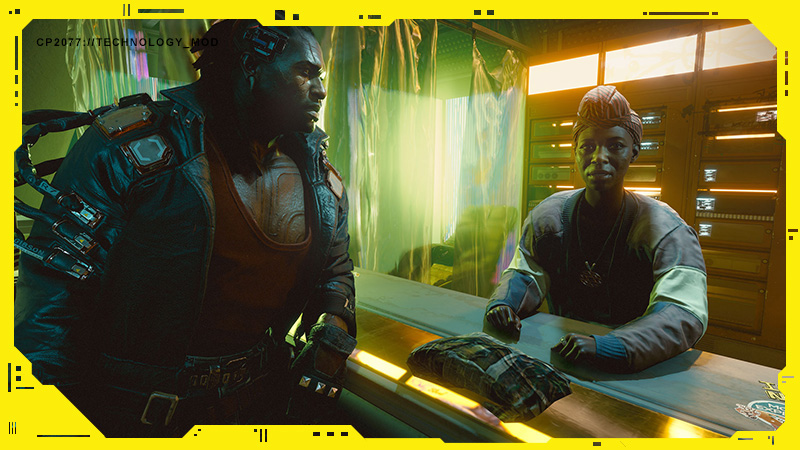
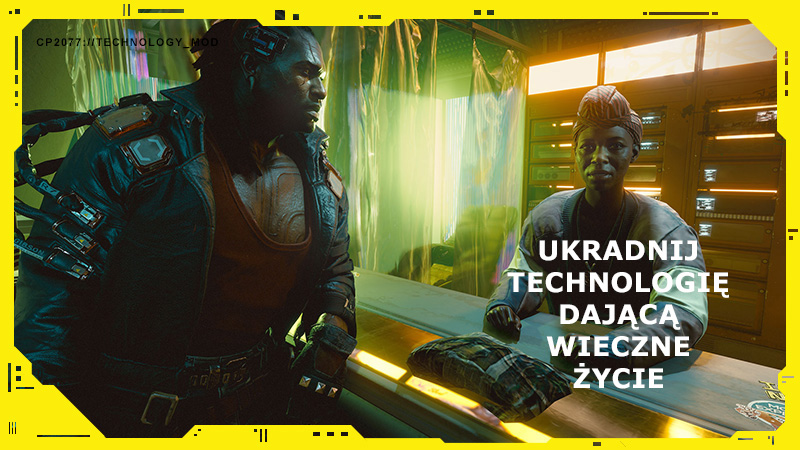
v 2.1 Mail apps friendly version
index.html rewritten to accomodate lack of margin in mail apps
Images reworked

Changed region(s): [[0.625, 0.5289, 0.9062, 0.8711]]

diff --git a/index.html b/index.html
@@ -10,8 +10,6 @@
         @media only screen and (max-width: 640px){
             .mail-container {
                 width: 100%;
-                padding: 0;
-                margin: 0;
             }
         }
 
@@ -46,6 +44,21 @@
             <td>
                 <!-- Start of the Main Container -->
                 <table class="mail-container" width="600" border="0" align="center" cellspacing="0" cellpadding="0" style="font-family: Verdana,Geneva,sans-serif;">
+
+                    <!-- View Email Online link -->
+                    <tr>
+                        <td>
+                            <table class="header-paragraph" width="100%" border="0" align="center" cellspacing="0" cellpadding="0" style="font-family: Verdana,Geneva,sans-serif; background: #000000; ">
+                                <tr>
+                                    <td align="center" style="padding: 5px; margin: 0;">
+                                        <a href="https://rbulawa.github.io/Cyberpunk_2077_Email" target="blank">
+                                            <p style="color: #ffffff; font-size: 12px; text-align: center; line-height: 1.7; margin: 0; font-weight: 300; padding-left: 0px; padding-right: 0px; padding-bottom: 0px; padding-top: 0px; letter-spacing: 0.3px; font-family: Verdana,Geneva,sans-serif; text-decoration: underline;">Obejrzyj maila Online</p>
+                                        </a>
+                                    </td>
+                                </tr>
+                            </table>
+                        </td>
+                    </tr>
                     <!-- Start of Hero Title Section -->
                     <tr>
                         <td>
@@ -117,7 +130,7 @@
                             <table width="100%" border="0" align="center" cellspacing="0" cellpadding="0" style="background: #fcee0a; font-family: Verdana,Geneva,sans-serif; margin: 0; padding: 20px 0px; padding-bottom: 40px;" >
                                 <tr>
                                     <td align="center" width="100%">
-                                        <a align="center" style="text-decoration: none;" href="https://www.cyberpunk.net/pl/pl/pre-order" target="blank"><img src="https://rbulawa.github.io/Cyberpunk_2077_Email/img/buy-btn-red.png" alt="Przycisk kupna gry"><h3 style=" margin-top: -55px; text-transform: uppercase; font-weight: 600; letter-spacing: 2px; color: #ffffff; text-decoration: none;">Zamów teraz_</h3></a>
+                                        <a align="center" style="text-decoration: none;" href="https://www.cyberpunk.net/pl/pl/pre-order" target="blank"><img src="https://rbulawa.github.io/Cyberpunk_2077_Email/img/buy-btn-red2.png" alt="Przycisk kupna gry"></a>
                                     </td>
                                 </tr>
                             </table>
@@ -141,9 +154,8 @@
                         <td>
                             <table width="100%" border="0" align="center" cellspacing="0" cellpadding="0" style="font-family: Verdana,Geneva,sans-serif; margin: 0; background: #fcee0a;">
                                 <tr>
-                                    <td width="100%" style="padding-bottom: 40px;">
+                                    <td width="100%" style="padding-bottom: 0px;">
                                         <img align="center" width="100%" style="background: #fcee0a;" src="https://rbulawa.github.io/Cyberpunk_2077_Email/img/lotr01.jpg" alt="Obrazek postaci Łotra">
-                                        <h4 align="right" width="100%" style="font-size: 22px; color: #ffffff; margin-top: -180px; margin-left: 350px; margin-right: 40px; text-transform: uppercase; font-weight: 600; letter-spacing: 2px;">GRAJ WYJĘTYM SPOD PRAWA NAJEMNIKIEM</h4>
                                     </td>
                                 </tr>
                             </table>
@@ -152,7 +164,7 @@
                     <!-- Row 1 Underneath Text -->
                     <tr>
                         <td>
-                            <table width="100%" border="0" align="center" cellspacing="0" cellpadding="0" style="font-family: Verdana,Geneva,sans-serif; margin: 0; background: #fcee0a; padding: 10px 0px;">
+                            <table width="100%" border="0" align="center" cellspacing="0" cellpadding="0" style="font-family: Verdana,Geneva,sans-serif; margin: 0; background: #fcee0a; padding: 0px;">
                                 <tr>
                                     <td width="100%">
                                         <p align="left" style="color: #000000; font-size: 12px; text-align: left; line-height: 1.7; font-weight: 600; padding: 20px 60px; letter-spacing: 0.3px; margin-top: 10px; font-family: Verdana,Geneva,sans-serif; ">Zostań cyberpunkiem, uzbrojonym po zęby wolnym strzelcem, i stań się legendą najbardziej niebezpiecznego miasta przyszłości.</p>
@@ -166,9 +178,8 @@
                         <td>
                             <table width="100%" border="0" align="center" cellspacing="0" cellpadding="0" style="font-family: Verdana,Geneva,sans-serif; margin: 0; background: #fcee0a;">
                                 <tr>
-                                    <td width="100%" style="padding-bottom: 110px;">
+                                    <td width="100%" style="padding-bottom: 0px;">
                                         <img align="center" width="100%" style="background: #fcee0a;" src="https://rbulawa.github.io/Cyberpunk_2077_Email/img/future-city01.jpg" alt="Obrazek z miastem przyszłości Nigh City">
-                                        <h4 align="left" width="100%" style="font-size: 22px; color: #ffffff; margin-top: -250px; margin-left: 40px; margin-right: 350px; text-transform: uppercase; font-weight: 600; letter-spacing: 2px;">POZNAJ SMAK ŻYCIA W MIEŚCIE PRZYSZŁOŚCI</h4>
                                     </td>
                                 </tr>
                             </table>
@@ -177,7 +188,7 @@
                     <!-- Row 2 Underneath Text -->
                     <tr>
                         <td>
-                            <table width="100%" border="0" align="center" cellspacing="0" cellpadding="0" style="font-family: Verdana,Geneva,sans-serif; margin: 0; background: #fcee0a; padding: 10px 0px;">
+                            <table width="100%" border="0" align="center" cellspacing="0" cellpadding="0" style="font-family: Verdana,Geneva,sans-serif; margin: 0; background: #fcee0a; padding: 0px;">
                                 <tr>
                                     <td width="100%">
                                         <p align="left" style="color: #000000; font-size: 12px; text-align: left; line-height: 1.7; font-weight: 600; padding: 20px 60px; letter-spacing: 0.3px; margin-top: 10px; font-family: Verdana,Geneva,sans-serif; ">Witaj w Night City — stworzonym z rozmachem mieście przyszłości, w którym zatracisz się bez pamięci.</p>
@@ -193,7 +204,6 @@
                                 <tr>
                                     <td width="100%" style="padding-bottom: 0px;">
                                         <img align="center" width="100%" style="background: #fcee0a;" src="https://rbulawa.github.io/Cyberpunk_2077_Email/img/cyberpunk-techno01.JPG" alt="Obrazek z technologią Cyberpunk 2077">
-                                        <h4 align="center" width="100%" style="font-size: 22px; color: #ffffff; margin-top: -160px; margin-left: 350px; margin-right: 40px; text-transform: uppercase; font-weight: 600; letter-spacing: 2px;">UKRADNIJ TECHNOLOGIĘ DAJĄCĄ WIECZNE ŻYCIE</h4>
                                     </td>
                                 </tr>
                             </table>
@@ -206,7 +216,7 @@
                                 <tr>
                                     <td width="100%">
                                         <p align="left" style="color: #000000; font-size: 12px; text-align: left; line-height: 1.7; font-weight: 600; padding: 20px 60px; margin-top: 10px; letter-spacing: 0.3px; font-family: Verdana,Geneva,sans-serif; ">Zdobądź najpotężniejszy wszczep w Night City i zmierz się z tymi, którzy trzęsą całym miastem.</p>
-                                        <img align="center" width="100%" style="padding: 0px; margin: 0px; background: #000000;" src="https://rbulawa.github.io/Cyberpunk_2077_Email/img/black-end-bar.jpg" alt="Pas dekoracyjny kończący sekcje">
+                                        <img align="center" width="100%" style="padding: 0px; margin: 0px; background: #000000;" src="img/black-end-bar.jpg" alt="Pas dekoracyjny kończący sekcje">
                                     </td>
                                 </tr>
                             </table>
@@ -219,7 +229,7 @@
                                 <tr>
                                     <td align="center" style="padding: 0; margin: 0; background:#020012">
                                         <h1 style="color: #fcee0a; padding-bottom: 5px; padding-left: 40px; padding-right: 40px; padding-top: 40px; margin: 0; font-size: 42px; letter-spacing: 0.3px; text-transform: uppercase; line-height: 1">Oficjalny zwiastun</h1>
-                                        <img align="center" style="padding-left: 0px; padding-bottom: 5px; background: #020012;" src="https://rbulawa.github.io/Cyberpunk_2077_Email/img/cyberpunk_underline-yellow.png" alt="Pozioma stylowa kreska pod tekstem">
+                                        <img align="center" style="padding-left: 0px; padding-bottom: 5px; background: #020012;" src="img/cyberpunk_underline-yellow.png" alt="Pozioma stylowa kreska pod tekstem">
                                         <p align="center" width="100%"  style="color: #fcee0a; font-size: 14px; text-align: center; font-weight: 600; padding-bottom: 30px; margin-top: 0px; letter-spacing: 3px; font-family: Verdana,Geneva,sans-serif; text-transform: uppercase; ">Cyberpunk 2077</p>
                                     </td>
                                 </tr>
@@ -229,14 +239,13 @@
                     <!-- Trailer Image Section -->
                     <tr>
                         <td>
-                            <table width="100%" border="0" align="center" cellspacing="0" cellpadding="0" style="font-family: Verdana,Geneva,sans-serif; margin: 0; background: #fcee0a;">
+                            <table width="100%" border="0" align="center" cellspacing="0" cellpadding="0" style=" font-family: Verdana,Geneva,sans-serif; margin: 0; background: #fcee0a;">
                                 <tr>
                                     <td width="100%" style="padding-bottom: 0px; background: #020012;">
-                                        <img align="center" width="100%" style="background: #020012; padding-bottom: 20px;" src="https://rbulawa.github.io/Cyberpunk_2077_Email/img/trailer3.jpg" alt="Obrazek zwiastunowy z odnośnikiem">
-                                            <a align="center" width="100%" style="padding: 0px; margin: 0px;" target="blank" href="https://www.youtube.com/watch?v=qIcTM8WXFjk">
-                                                <img src="img/YT-play-btn.png" alt="Link do zwiastunu Cyberpunk 2077" style="padding: 0px; margin-top: -250px; margin-bottom: 180px; margin-left: 100px; margin-right: 40px;">
-                                            </a>
-                                        <img align="center" width="100%" style="padding: 0px; margin: 0px; background: #05DBF6;" src="https://rbulawa.github.io/Cyberpunk_2077_Email/img/end-bar-xbox2.jpg" alt="Pas dekoracyjny kończący sekcje">
+                                        <a align="center" width="100%" style="padding: 0px; margin: 0px;" target="blank" href="https://www.youtube.com/watch?v=qIcTM8WXFjk">
+                                            <img align="center" width="100%" style="background: #020012; padding-bottom: 0px;" src="https://rbulawa.github.io/Cyberpunk_2077_Email/img/trailer3.jpg" alt="Obrazek zwiastunowy z odnośnikiem">
+                                        </a>
+                                        <img align="center" width="100%" style="padding-top: 20px; margin: 0px; background: #020012;" src="img/end-bar-xbox2.jpg" alt="Pas dekoracyjny kończący sekcje">
                                     </td>
                                 </tr>
                             </table>
@@ -254,7 +263,7 @@
                                             <a width="100%" style="padding: 0px; margin: 0px; text-decoration: none;" target="blank" href="https://www.xbox.com/pl-PL/consoles/xbox-one-x/cyberpunk-2077-1tb-le">
                                                 <h2 align="left" style="color: #000000; text-transform: uppercase; letter-spacing: 0px; padding-top: 10px; padding-left: 40px; padding-bottom: 30px; margin: 0px;">Dostępne od czerwca 2020</h2>
                                             </a>
-                                        <img align="center" width="100%" style="padding: 0px; margin: 0px; background: #fcee0a;" src="https://rbulawa.github.io/Cyberpunk_2077_Email/img/end-bar-blue.jpg" alt="Pas dekoracyjny kończący sekcje">
+                                        <img align="center" width="100%" style="padding: 0px; margin: 0px; background: #fcee0a;" src="img/end-bar-blue.jpg" alt="Pas dekoracyjny kończący sekcje">
                                     </td>
                                 </tr>
                             </table>
@@ -265,11 +274,10 @@
                         <td>
                             <table width="100%" border="0" align="center" cellspacing="0" cellpadding="0" style="font-family: Verdana,Geneva,sans-serif; margin: 0px; padding: 0px; background: #050014;">
                                 <tr>
-                                    <td width="100%" style="padding: 0px; margin: 0px;">
-                                        <img width="100%" style="background: #fcee0a; padding: 0px; margin: 0px;" src="https://rbulawa.github.io/Cyberpunk_2077_Email/img/xbox-CP2077.jpg" alt="Obrazek limitowanej edycji Xbox'a w stylu Cyberpunk 2077">  
-                                            <a align="center" width="100%" style="padding: 0px; margin: 0px;" target="blank" href="https://www.xbox.com/pl-PL/consoles/xbox-one-x/cyberpunk-2077-1tb-le">
-                                                <img align="center" src="https://rbulawa.github.io/Cyberpunk_2077_Email/img/buy-btn-red2.png" alt="Link do zwiastunu Cyberpunk 2077" style="padding: 0px; margin-top: -230px; margin-bottom: 130px; margin-left: 100px; margin-right: 40px;">
-                                            </a>
+                                    <td width="100%" style="padding: 0px; margin: 0px;">  
+                                        <a align="center" width="100%" style="padding: 0px; margin: 0px;" target="blank" href="https://www.xbox.com/pl-PL/consoles/xbox-one-x/cyberpunk-2077-1tb-le">
+                                            <img width="100%" style="background: #fcee0a; padding: 0px; margin: 0px;" src="img/xbox-CP2077.jpg" alt="Obrazek limitowanej edycji Xbox'a w stylu Cyberpunk 2077">      
+                                        </a>
                                     </td>
                                 </tr>
                             </table>
@@ -277,10 +285,10 @@
                     </tr>
                     <!-- Buy Xbox Controller Section-->
                     <tr>
-                        <td style="padding: 0px; margin: 0px; background: #050014;">
+                        <td style="padding: 0px 0px; margin: 0px; background: #050014;">
                             <table width="100%" border="0" align="center" cellspacing="0" cellpadding="0" style="font-family: Verdana,Geneva,sans-serif; margin: 0px; padding: 0px; background: #050014;">
-                                <p style="color: #ffffff; font-size: 12px; text-align: left; line-height: 1.7; margin: 0; font-weight: 600; padding-left: 40px; padding-right: 80px; padding-bottom: 20px; padding-top: 0px; letter-spacing: 0.3px; font-family: Verdana,Geneva,sans-serif; ">Konsoli towarzyszy równie unikatowy, bezprzewodowy kontroler, którego cyberpunkowy wygląd i klimatyczne wykończenie nawiązuje do Johnnego Silverhanda — jednej z głównych postaci gry. Kontroler może być kupiony w zestawie z konsolą lub oddzielnie.</p>
-                                <img align="center" width="100%" style="padding: 0px; margin: 0px; background: #fcee0a;" src="https://rbulawa.github.io/Cyberpunk_2077_Email/img/black-end-bar3.jpg" alt="Pas dekoracyjny kończący sekcje">
+                                <p style="color: #ffffff; font-size: 12px; text-align: left; line-height: 1.7; margin: 0; font-weight: 600; padding-left: 40px; padding-right: 80px; padding-bottom: 30px; padding-top: 30px; letter-spacing: 0.3px; font-family: Verdana,Geneva,sans-serif; ">Konsoli towarzyszy równie unikatowy, bezprzewodowy kontroler, którego cyberpunkowy wygląd i klimatyczne wykończenie nawiązuje do Johnnego Silverhanda — jednej z głównych postaci gry. Kontroler może być kupiony w zestawie z konsolą lub oddzielnie.</p>
+                                <img align="center" width="100%" style="padding: 0px; margin: 0px; background: #fcee0a;" src="img/black-end-bar3.jpg" alt="Pas dekoracyjny kończący sekcje">
                             </table>
                         </td>
                     </tr>
@@ -290,7 +298,7 @@
                             <table width="100%" border="0" align="center" cellspacing="0" cellpadding="0" style="font-family: Verdana,Geneva,sans-serif; margin: 0; background: #fcee0a; padding: 0px;">
                                 <tr>
                                     <td width="100%" style="padding: 0px; margin: 0px; background: #050014;">
-                                        <img align="center" width="100%" style="padding: 0px; padding-bottom: 10px; margin: 0px; background: #050014;" src="https://rbulawa.github.io/Cyberpunk_2077_Email/img/Stellseries.jpg" alt="Pas dekoracyjny kończący sekcje">
+                                        <img align="center" width="100%" style="padding: 0px; padding-bottom: 10px; margin: 0px; background: #050014;" src="img/Stellseries.jpg" alt="Pas dekoracyjny kończący sekcje">
                                         <p style="color: #ffffff; font-size: 12px; text-align: left; line-height: 1.7; margin: 0; font-weight: 600; padding-left: 40px; padding-right: 80px; padding-bottom: 20px; padding-top: 20px; letter-spacing: 0.3px; font-family: Verdana,Geneva,sans-serif; ">Zestaw słuchawkowy od Steelseries pozwoli ci na pełną immersję w Night City! Przygotowaliśmy dwie wersje Edycji Limitowanej Arctis 1 Wireless: Edycja Johnny’ego Silverhanda i Edycja Netrunnerska. A jeśli już masz słuchawki Arctic Pro możesz je odświeżyć za pomocą jednego z booster packów! Na początku maja zestawy słuchawkowe będą dostępne w wybranych polskich sklepach.</p>
                                     </td>
                                 </tr>
@@ -303,11 +311,11 @@
                             <table width="100%" border="0" align="center" cellspacing="0" cellpadding="0" style="background: #050014; font-family: Verdana,Geneva,sans-serif; margin: 0; padding: 20px 0px; padding-bottom: 80px;" >
                                 <tr>
                                     <td align="center" width="100%" style="padding: 0px;">
-                                        <a style="text-decoration: none;" href="https://steelseries.com/cyberpunk-2077" target="blank"><img src="https://rbulawa.github.io/Cyberpunk_2077_Email/img/buy-btn-red-white.png" alt="Przycisk kupna gry"><h3 style=" margin-top: -55px; text-transform: uppercase; font-weight: 600; letter-spacing: 2px; color: #ffffff; text-decoration: none;">Zamów teraz_</h3></a>
+                                        <a style="text-decoration: none;" href="https://steelseries.com/cyberpunk-2077" target="blank"><img src="img/buy-btn-red2.png" alt="Przycisk kupna gry"></a>
                                     </td>
                                 </tr>
                             </table>
-                            <img align="center" width="100%" style="padding: 0px; margin: 0px; background: #050014;" src="https://rbulawa.github.io/Cyberpunk_2077_Email/img/black-end-bar3.jpg" alt="Pas dekoracyjny kończący sekcje">
+                            <img align="center" width="100%" style="padding: 0px; margin: 0px; background: #050014;" src="img/black-end-bar3.jpg" alt="Pas dekoracyjny kończący sekcje">
                         </td>
                     </tr>
                     <!-- Social Links Section-->
@@ -318,13 +326,13 @@
                                     <td align="center" width="100%">
                                         <h2 style="color: #000000; text-transform: uppercase; letter-spacing: 0.3px; padding: 20px 50px; margin-bottom: 0;">Chesz być na bieżąco?</h2>
                                         <p align="center" width="100%"  style="color: #000000; font-size: 14px; text-align: center; font-weight: 600; padding-bottom: 20px; margin-top: 20px; letter-spacing: 0.3px; font-family: Verdana,Geneva,sans-serif; ">Śledź nas na portalach społecznościowych:</p>
-                                        <a align="center" href="https://www.youtube.com/user/CyberPunkGame" target="blank"><img src="https://rbulawa.github.io/Cyberpunk_2077_Email/img/youtube-social-link.png" alt="Link do YouTube'a" style="padding: 10px;"></a>
-                                        <a align="center" href="https://www.facebook.com/CyberpunkGamePL" target="blank"><img src="https://rbulawa.github.io/Cyberpunk_2077_Email/img/facebook-social-link.png" alt="Link do Facebooka" style="padding: 10px;"></a>
-                                        <a align="center" href="https://twitter.com/cyberpunkgame" target="blank"><img src="https://rbulawa.github.io/Cyberpunk_2077_Email/img/twitter-social-link.png" alt="Link do Twitter'a" style="padding: 10px;"></a>
-                                        <a align="center" href="https://forums.cdprojektred.com/index.php?forums/cyberpunk.31/" target="blank"><img src="https://rbulawa.github.io/Cyberpunk_2077_Email/img/icon-social-forums.png" alt="Link do Forum" style="padding: 10px;"></a>
-                                        <a align="center" href="https://discord.com/invite/cyberpunkgame" target="blank"><img src="https://rbulawa.github.io/Cyberpunk_2077_Email/img/discord-social-link.png" alt="Link do Discord'a" style="padding: 10px;"></a>
-                                        <a align="center" href="https://www.instagram.com/cyberpunkgame/" target="blank" style="text-decoration: none;"><img src="https://rbulawa.github.io/Cyberpunk_2077_Email/img/instagram-social-link.png" alt="Link do Instagrama" style="padding: 10px;"></a>
-                                        <a align="center" href="https://cyberpunkgame.tumblr.com/" target="blank"><img src="https://rbulawa.github.io/Cyberpunk_2077_Email/img/tumblr-social-link.png" alt="Link do Tumblr" style="padding: 10px;"></a>
+                                        <a align="center" href="https://www.youtube.com/user/CyberPunkGame" target="blank"><img src="img/youtube-social-link.png" alt="Link do YouTube'a" style="padding: 10px;"></a>
+                                        <a align="center" href="https://www.facebook.com/CyberpunkGamePL" target="blank"><img src="img/facebook-social-link.png" alt="Link do Facebooka" style="padding: 10px;"></a>
+                                        <a align="center" href="https://twitter.com/cyberpunkgame" target="blank"><img src="img/twitter-social-link.png" alt="Link do Twitter'a" style="padding: 10px;"></a>
+                                        <a align="center" href="https://forums.cdprojektred.com/index.php?forums/cyberpunk.31/" target="blank"><img src="img/icon-social-forums.png" alt="Link do Forum" style="padding: 10px;"></a>
+                                        <a align="center" href="https://discord.com/invite/cyberpunkgame" target="blank"><img src="img/discord-social-link.png" alt="Link do Discord'a" style="padding: 10px;"></a>
+                                        <a align="center" href="https://www.instagram.com/cyberpunkgame/" target="blank" style="text-decoration: none;"><img src="img/instagram-social-link.png" alt="Link do Instagrama" style="padding: 10px;"></a>
+                                        <a align="center" href="https://cyberpunkgame.tumblr.com/" target="blank"><img src="img/tumblr-social-link.png" alt="Link do Tumblr" style="padding: 10px;"></a>
                                     </td>
                                 </tr>
                             </table>
@@ -339,7 +347,7 @@
                                     <td align="center" width="100%" style="padding: 0px; margin: 0px; background: #fcee0a;">
                                         <p align="center" width="100%"  style="color: #000000; font-size: 14px; text-align: center; font-weight: 600; padding-bottom: 20px; margin-top: 0px; margin-bottom: 0px; letter-spacing: 0.3px; font-family: Verdana,Geneva,sans-serif; ">Najnowsza gra</p>
                                         <a href="https://www.cyberpunk.net/pl/pl/">
-                                            <img align="center" width="60%" style="padding-top: 0px; padding-bottom: 0px; margin: 0px; background: #fcee0a;" src="https://rbulawa.github.io/Cyberpunk_2077_Email/img/cyberpunk-2077-logo2.png" alt="Logo gry Cyberpunk 2077">
+                                            <img align="center" width="60%" style="padding-top: 0px; padding-bottom: 0px; margin: 0px; background: #fcee0a;" src="img/cyberpunk-2077-logo2.png" alt="Logo gry Cyberpunk 2077">
                                         </a>
                                     </td>
                                 </tr>        
@@ -347,14 +355,15 @@
                                         <td align="center" width="100%" style="padding: 0px; margin: 0px; background: #fcee0a;"> 
                                             <p align="center" width="100%"  style="color: #000000; font-size: 14px; text-align: center; font-weight: 600; padding-bottom: 0px; margin-top: 30px; margin-bottom: 0px; letter-spacing: 0.3px; font-family: Verdana,Geneva,sans-serif; ">Studia</p>  
                                             <a align="center" href="https://www.cdprojekt.com/pl/">
-                                                <img align="center" width="32%" style="padding-top: 0px; padding-bottom: 20px; margin: 0px; background: #fcee0a;" src="https://rbulawa.github.io/Cyberpunk_2077_Email/img/CDProjektRed-Black-logo.png" alt="Logo CD Projekt Red">
+                                                <img align="center" width="32%" style="padding-top: 0px; padding-bottom: 20px; margin: 0px; background: #fcee0a;" src="img/CDProjektRed-Black-logo.png" alt="Logo CD Projekt Red">
                                             </a>
-                                            <p style="color: #000000; font-size: 12px; text-align: left; line-height: 1.4; margin: 0; font-weight: 300; padding-left: 40px; padding-right: 40px; padding-bottom: 20px; padding-top: 20px; letter-spacing: 0.2px; font-family: Verdana,Geneva,sans-serif; ">CD PROJEKT®, Cyberpunk®, Cyberpunk 2077® są zarejestrowanymi znakami towarowymi CD PROJEKT S.A. © 2020 CD PROJEKT S.A. Wszelkie prawa zastrzeżone. Wszelkie inne znaki towarowe, nazwy i logo są znakami towarowymi lub zastrzeżonymi znakami towarowymi należącymi do swoich prawowitych właścicieli. </p>
+                                            <p style="color: #000000; font-size: 9px; text-align: left; line-height: 1.4; margin: 0; font-weight: 300; padding-left: 40px; padding-right: 80px; padding-bottom: 20px; padding-top: 20px; letter-spacing: 0.2px; font-family: Verdana,Geneva,sans-serif; ">CD PROJEKT®, Cyberpunk®, Cyberpunk 2077® są zarejestrowanymi znakami towarowymi CD PROJEKT S.A. © 2020 CD PROJEKT S.A. Wszelkie prawa zastrzeżone. Wszelkie inne znaki towarowe, nazwy i logo są znakami towarowymi lub zastrzeżonymi znakami towarowymi należącymi do swoich prawowitych właścicieli. </p>
                                         </td>
                                     </tr>
                             </table>
                         </td>
                     </tr>
+                    
                 </table>
             </td>
         </tr>
